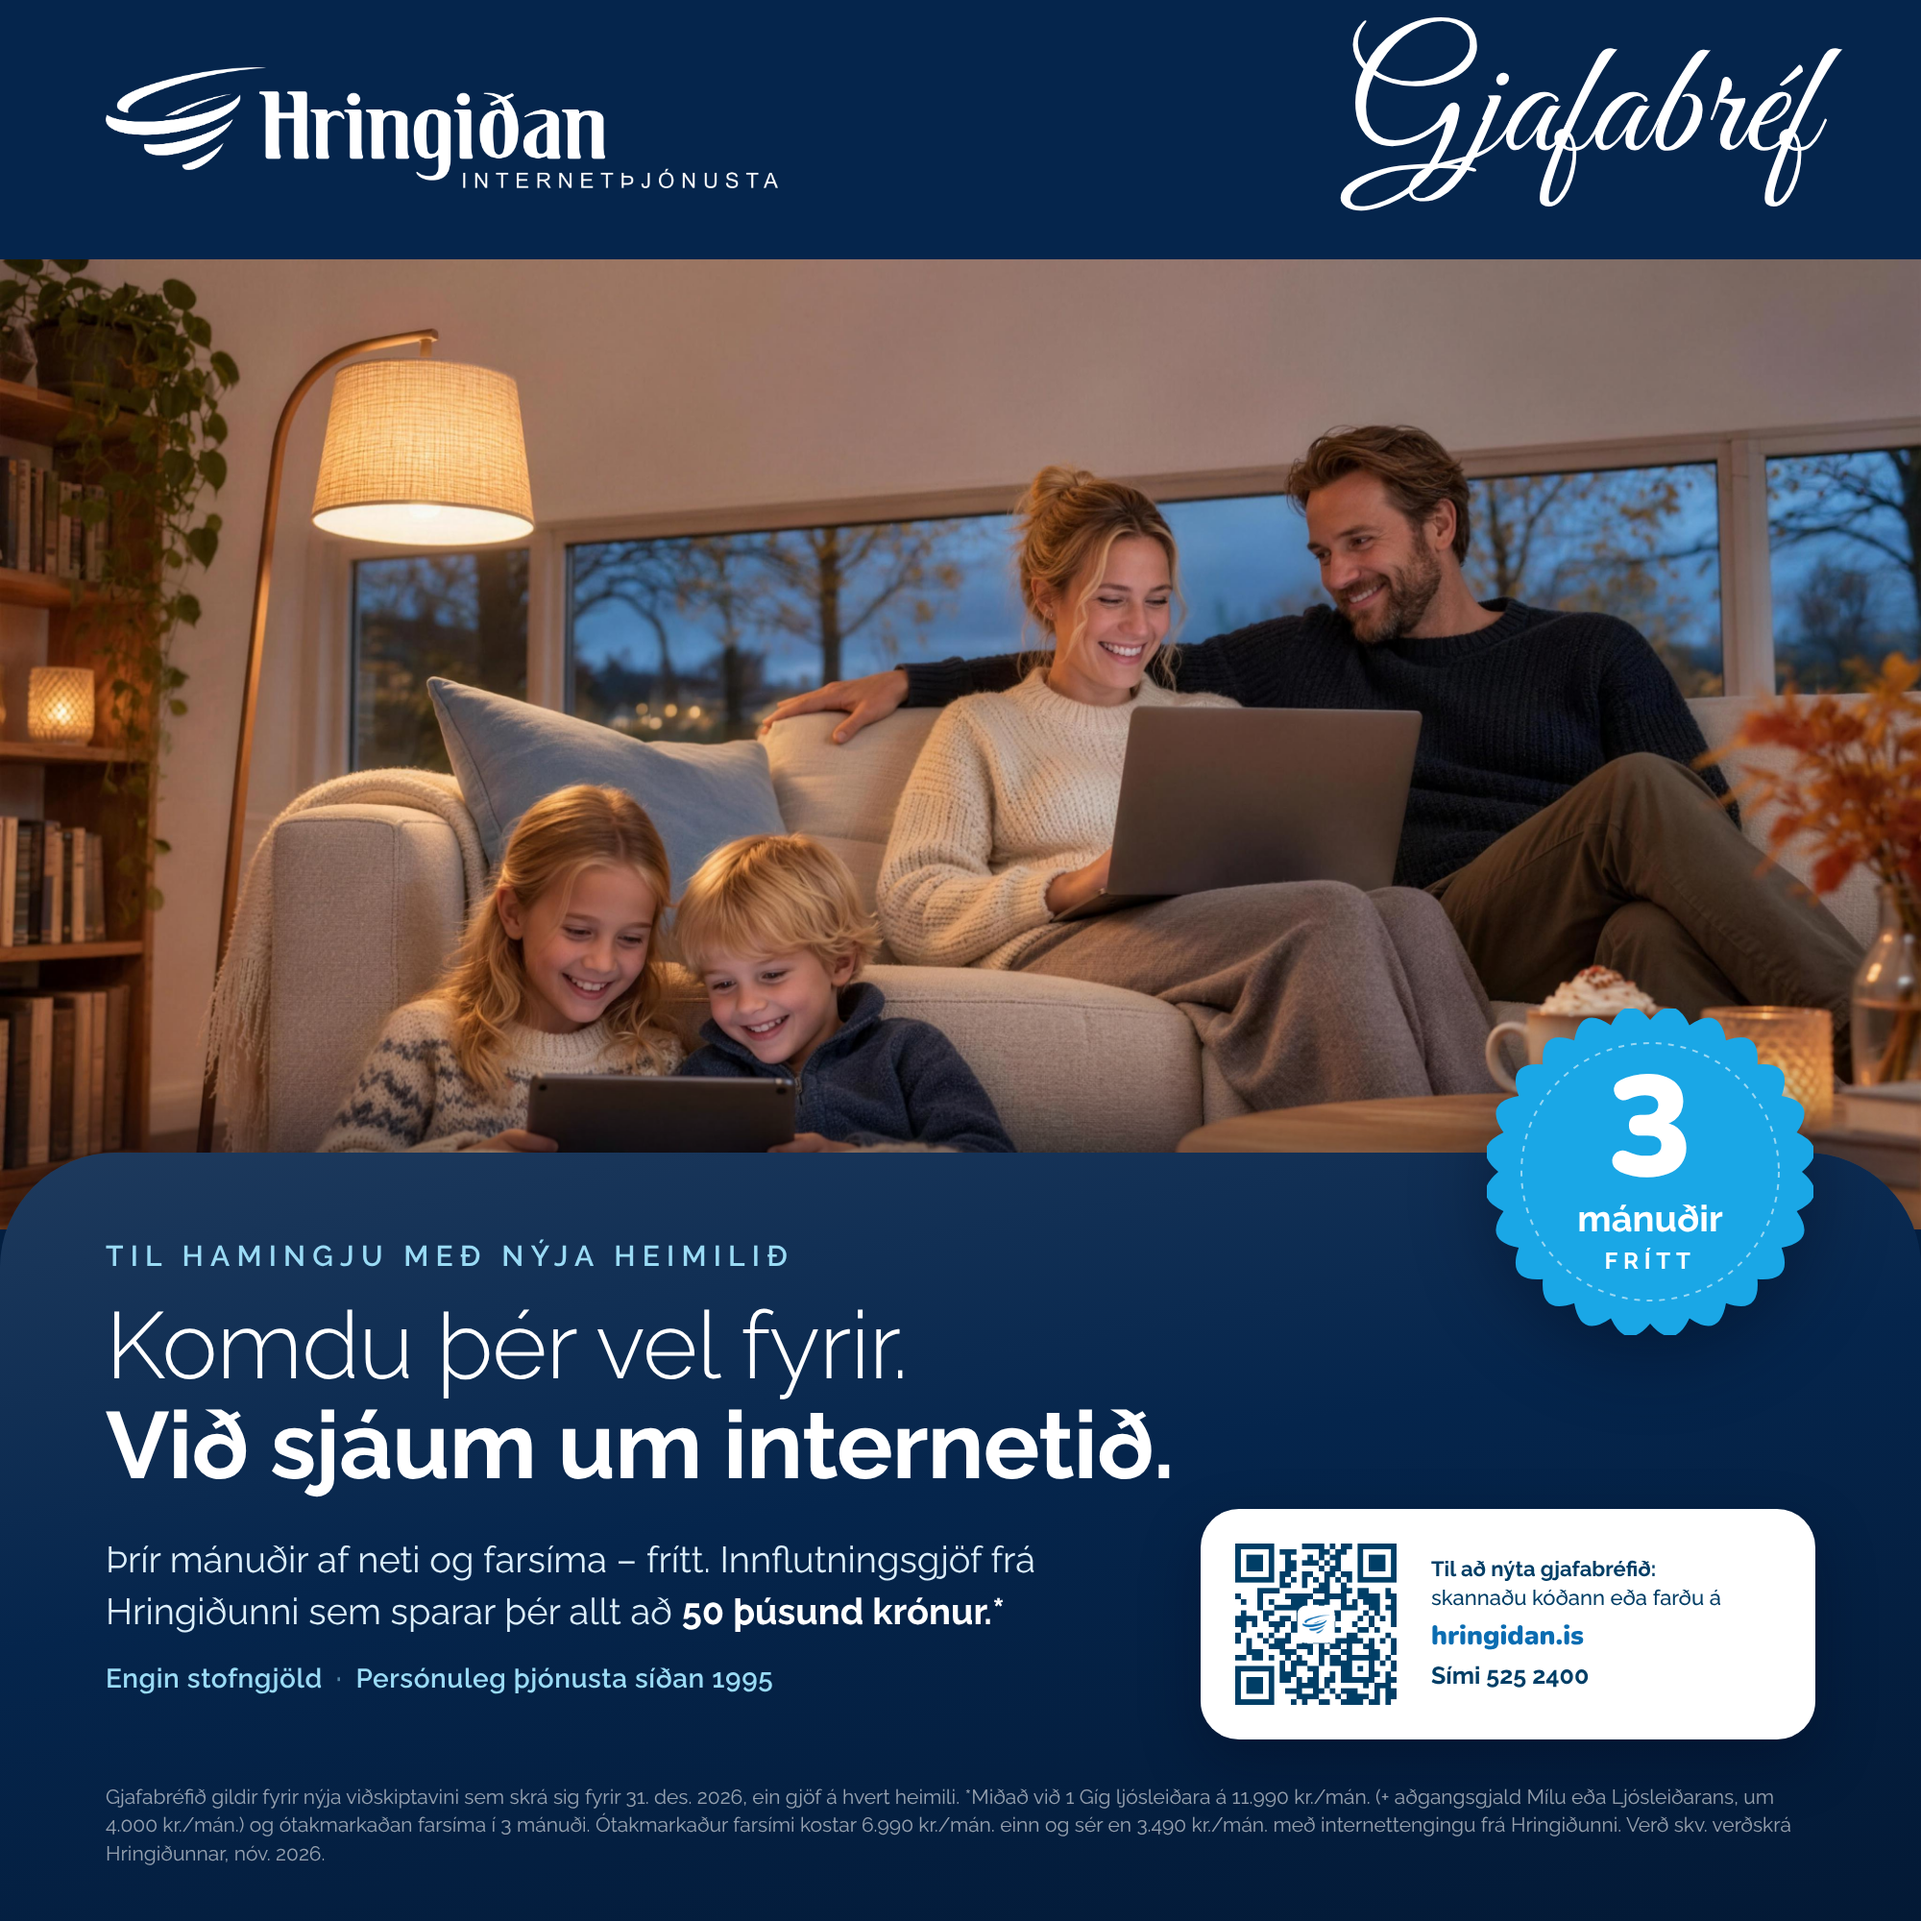
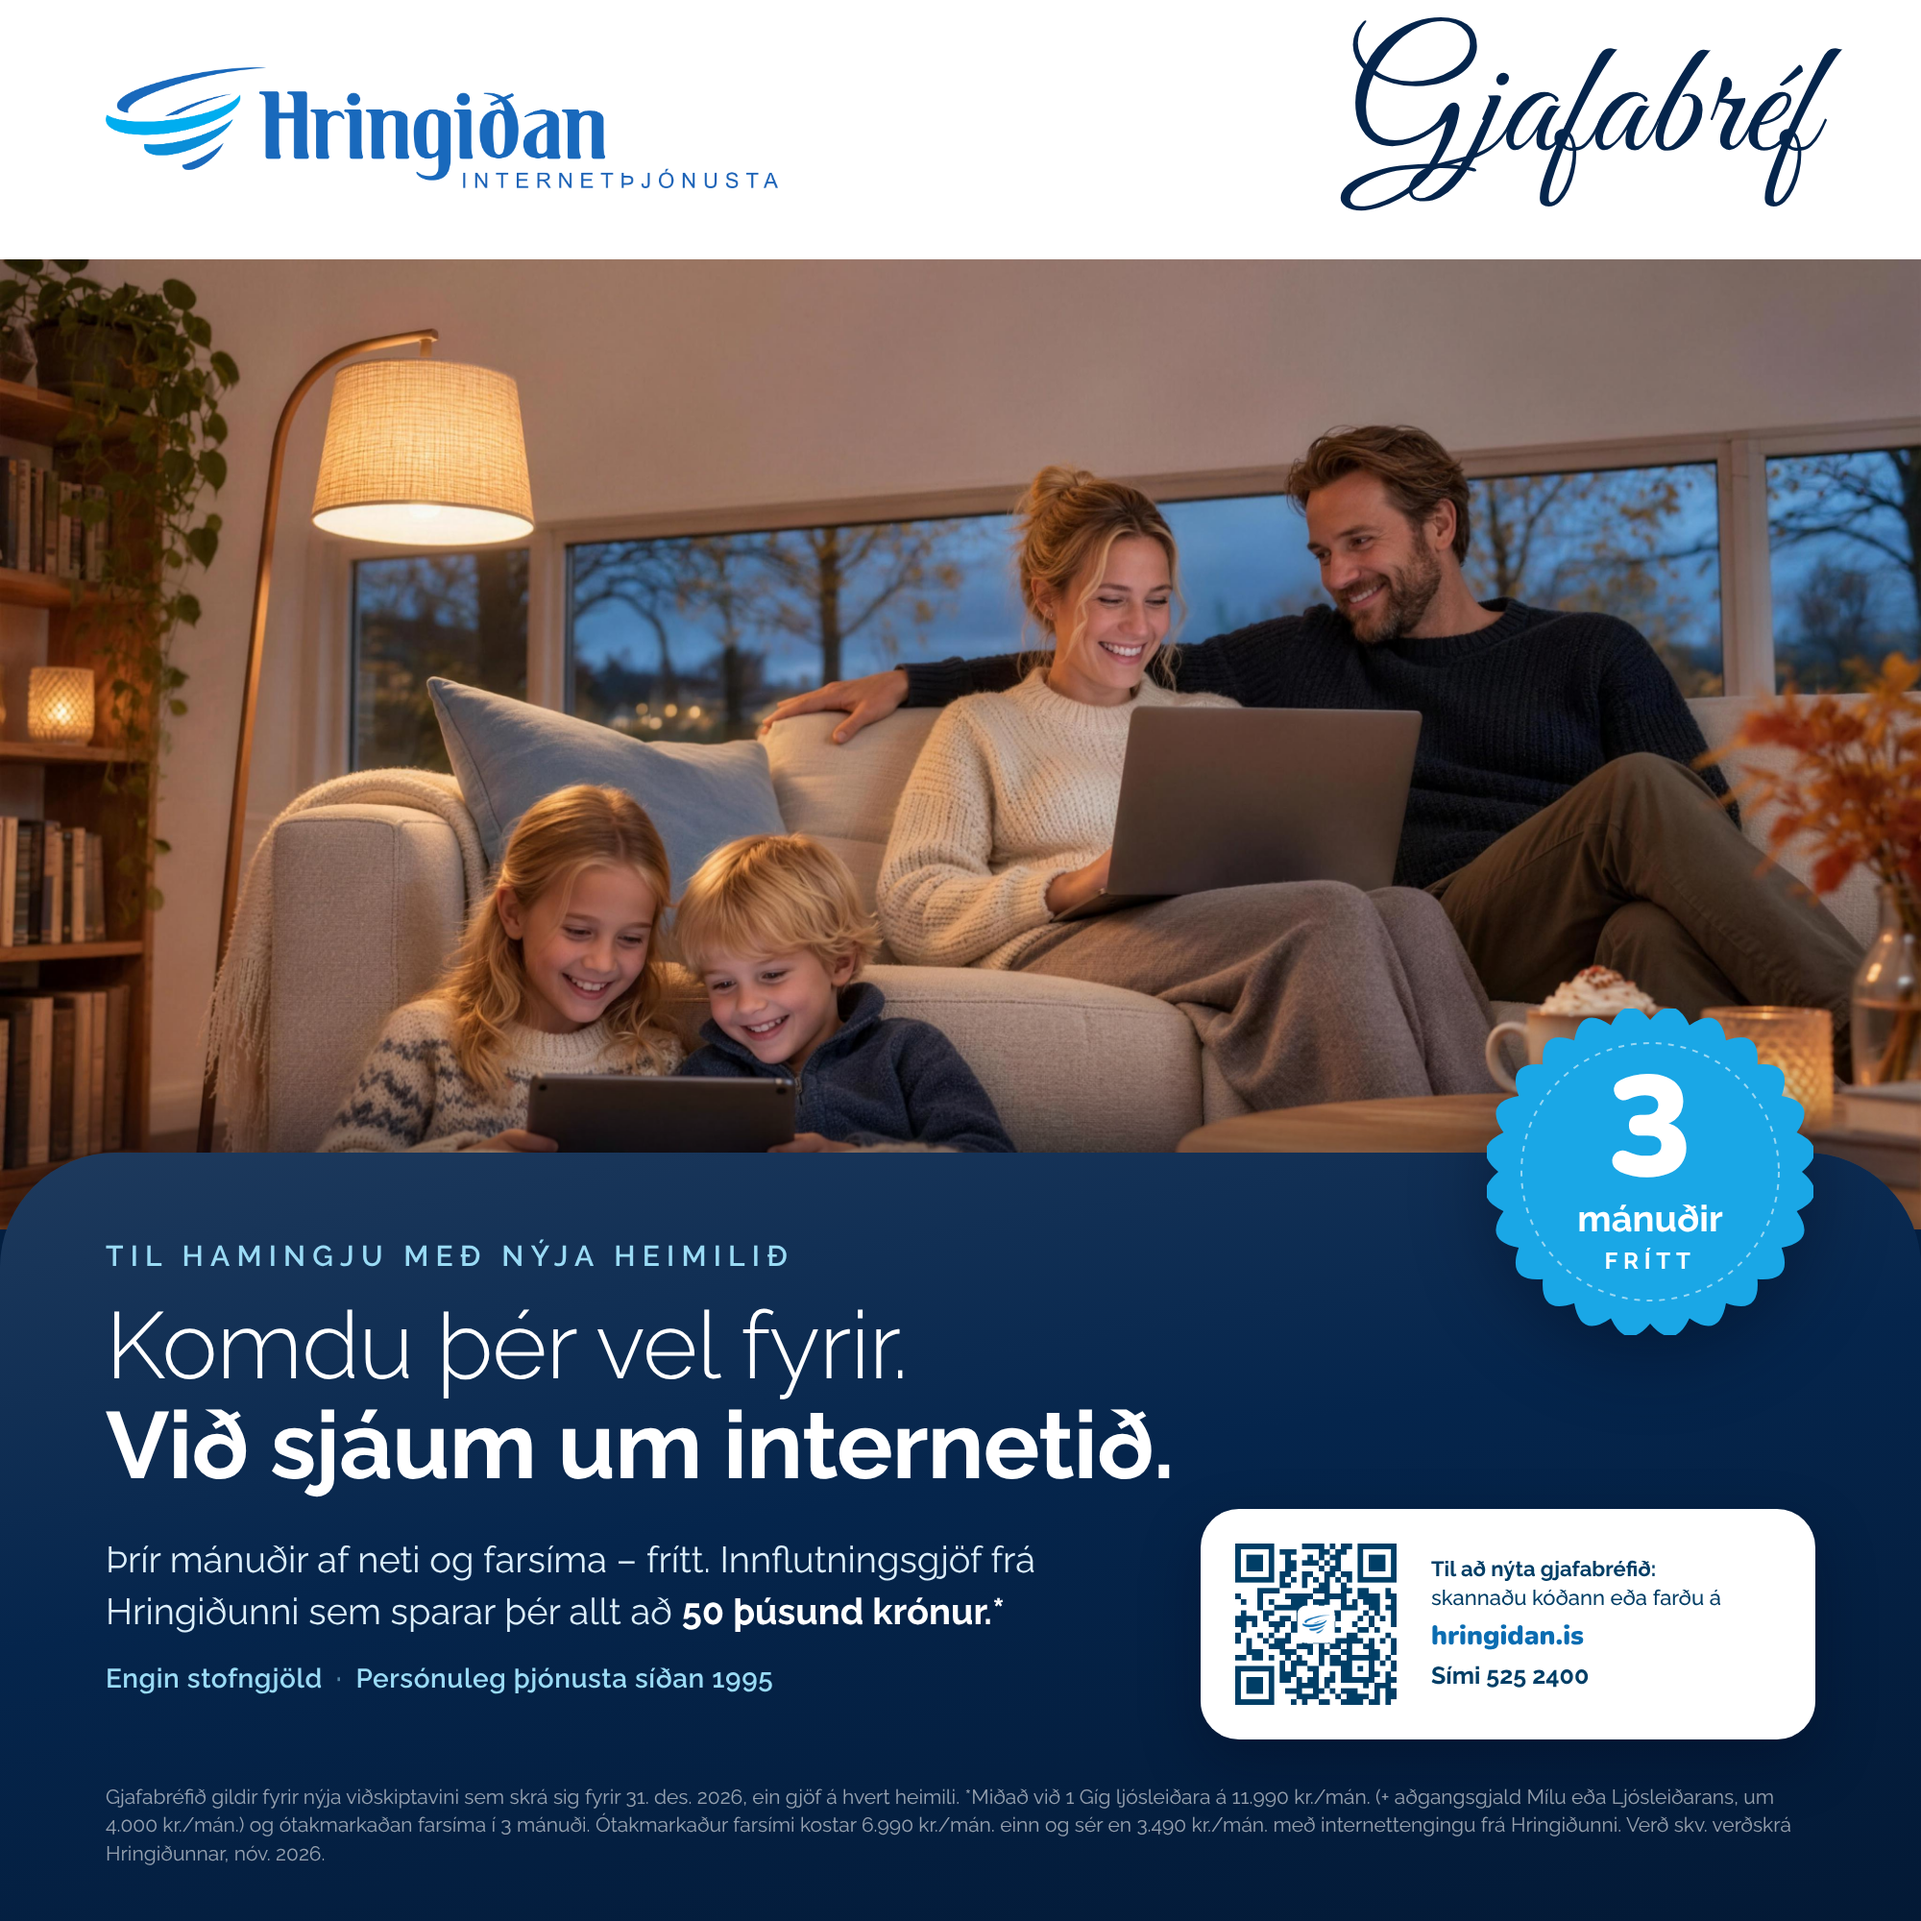
Hringiðan: merkið í réttum litum á hvítum grunni
Opinbera merkið notað í brand-litunum í stað hvítrar útgáfu. Bandið efst
á gjafabréfs-auglýsingunum gert hvítt (Gjafabréf í dökkbláu) og hvít
plata sett undir merkið á gjafakortinu svo litirnir sjáist rétt.

Claude-Session: https://claude.ai/code/session_01JAXd2m9cesSq5STdzJxvnq

Changed region(s): [[0.0, 0.0, 1.0, 0.155]]

diff --git a/auglysingar/hringidan/src/hringidan-gjafakort.html b/auglysingar/hringidan/src/hringidan-gjafakort.html
@@ -8,8 +8,9 @@
   .bg img { width: 2000px; height: 2000px; object-fit: cover; display: block; }
   .shade { position: absolute; left: 0; top: 1480px; width: 1480px; height: 210px; pointer-events: none;
            background: linear-gradient(90deg, rgba(8,34,62,.62) 0%, rgba(8,34,62,.45) 70%, rgba(8,34,62,0) 100%); }
-  .logo { position: absolute; left: 110px; top: 90px; width: 700px; }
-  .tag { position: absolute; left: 118px; top: 262px; font-size: 30px; font-weight: 500; letter-spacing: .32em; color: #CFE3F5; text-transform: uppercase; }
+  .plate { position: absolute; left: 90px; top: 64px; padding: 26px 34px 22px; background: #fff; border-radius: 26px; box-shadow: 0 18px 40px rgba(0,10,30,.35); }
+  .logo { display: block; width: 640px; }
+  .tag { position: absolute; left: 118px; top: 268px; font-size: 30px; font-weight: 500; letter-spacing: .32em; color: #CFE3F5; text-transform: uppercase; }
   .corner { position: absolute; left: 1706px; top: 830px; width: 200px; font-size: 22px; font-weight: 600; letter-spacing: .2em; line-height: 1.5; color: rgba(255,255,255,.85); text-transform: uppercase; }
   .corner hr { border: 0; border-top: 1px solid rgba(255,255,255,.45); width: 70px; margin: 18px 0; }
   .title { position: absolute; left: 110px; top: 372px; font-size: 140px; font-weight: 600; letter-spacing: .07em; line-height: 1; text-transform: uppercase; }
@@ -40,7 +41,7 @@
 </style></head><body><div class="ad">
   <div class="bg"><img src="giftbg.jpg" alt=""></div>
   <div class="shade"></div>
-  <img class="logo" src="logo_lockup_white.png" alt="Hringiðan Internetþjónusta">
+  <div class="plate"><img class="logo" src="logo_lockup_color.png" alt="Hringiðan Internetþjónusta"></div>
   <div class="tag">Tengir þig við meira</div>
   <div class="corner">Fjölskylda<br>Fyrirtæki<br>Framtíðin<hr>Íslenskir innviðir<br>Betra líf</div>
   <div class="title">Gjafabréf</div>

diff --git a/auglysingar/hringidan/src/hringidan-gjafabref-2d.html b/auglysingar/hringidan/src/hringidan-gjafabref-2d.html
@@ -3,9 +3,9 @@
 <style>
   @font-face { font-family: 'GreatVibes'; src: url('GreatVibes.woff2') format('woff2'); }
   .ad { background: #05254C; color: #fff; }
-  .head { position: absolute; left: 0; top: 0; width: 2000px; height: 270px; background: #05254C; }
+  .head { position: absolute; left: 0; top: 0; width: 2000px; height: 270px; background: #FFFFFF; }
   .logo { position: absolute; left: 110px; top: 70px; width: 700px; }
-  .gift { position: absolute; right: 110px; top: 34px; font-family: 'GreatVibes', cursive; font-size: 168px; line-height: 1; color: #fff; }
+  .gift { position: absolute; right: 110px; top: 34px; font-family: 'GreatVibes', cursive; font-size: 168px; line-height: 1; color: #05254C; }
   .photo { position: absolute; left: 0; top: 270px; width: 2000px; height: 1010px; overflow: hidden; }
   .photo img { width: 2000px; height: 1010px; display: block; object-fit: cover; object-position: 50% 60%; background: #05254C; }
   .panel { position: absolute; left: 0; right: 0; top: 1200px; bottom: 0; border-radius: 120px 120px 0 0; padding: 90px 110px 0;
@@ -36,7 +36,7 @@
   .seal .small { font-size: 24px; font-weight: 700; letter-spacing: .24em; text-transform: uppercase; margin-top: 10px; }
 </style></head><body><div class="ad">
   <div class="head"></div>
-  <img class="logo" src="logo_lockup_white.png" alt="Hringiðan Internetþjónusta">
+  <img class="logo" src="logo_lockup_color.png" alt="Hringiðan Internetþjónusta">
   <div class="gift">Gjafabréf</div>
   <div class="photo"><img src="illu.png" alt=""></div>
   <div class="panel">

diff --git a/auglysingar/hringidan/src/hringidan-gjafabref-ljosmynd.html b/auglysingar/hringidan/src/hringidan-gjafabref-ljosmynd.html
@@ -3,9 +3,9 @@
 <style>
   @font-face { font-family: 'GreatVibes'; src: url('GreatVibes.woff2') format('woff2'); }
   .ad { background: #05254C; color: #fff; }
-  .head { position: absolute; left: 0; top: 0; width: 2000px; height: 270px; background: #05254C; }
+  .head { position: absolute; left: 0; top: 0; width: 2000px; height: 270px; background: #FFFFFF; }
   .logo { position: absolute; left: 110px; top: 70px; width: 700px; }
-  .gift { position: absolute; right: 110px; top: 34px; font-family: 'GreatVibes', cursive; font-size: 168px; line-height: 1; color: #fff; }
+  .gift { position: absolute; right: 110px; top: 34px; font-family: 'GreatVibes', cursive; font-size: 168px; line-height: 1; color: #05254C; }
   .photo { position: absolute; left: 0; top: 270px; width: 2000px; height: 1010px; overflow: hidden; }
   .photo img { width: 2000px; height: 1010px; display: block; object-fit: cover; object-position: 50% 72%; }
   .panel { position: absolute; left: 0; right: 0; top: 1200px; bottom: 0; border-radius: 120px 120px 0 0; padding: 90px 110px 0;
@@ -36,7 +36,7 @@
   .seal .small { font-size: 24px; font-weight: 700; letter-spacing: .24em; text-transform: uppercase; margin-top: 10px; }
 </style></head><body><div class="ad">
   <div class="head"></div>
-  <img class="logo" src="logo_lockup_white.png" alt="Hringiðan Internetþjónusta">
+  <img class="logo" src="logo_lockup_color.png" alt="Hringiðan Internetþjónusta">
   <div class="gift">Gjafabréf</div>
   <div class="photo"><img src="photo_c.jpg" alt=""></div>
   <div class="panel">

diff --git a/auglysingar/hringidan/README.md b/auglysingar/hringidan/README.md
@@ -1,7 +1,7 @@
 # Hringiðan – Gjafabréf („Komdu þér vel fyrir“)
 
-Endurhönnun á innflutningsgjöf Hringiðunnar sem **gjafabréf**: dökkblátt band efst (sami navy-litur og á gjafakortinu,
-`#05254C`) með opinbera lógóinu (Hringiðan Internetþjónusta) vinstra megin og „Gjafabréf“ í skrautskrift hægra megin, fjölskyldumynd út í kant í kósý stemningu þar sem mamman er í tölvunni og
+Endurhönnun á innflutningsgjöf Hringiðunnar sem **gjafabréf**: hvítt band efst með opinbera lógóinu í réttum litum (Hringiðan Internetþjónusta) vinstra megin og „Gjafabréf“
+í skrautskrift í dökkbláu hægra megin, fjölskyldumynd út í kant í kósý stemningu þar sem mamman er í tölvunni og
 pabbinn horfir á hana, krakkarnir með spjaldtölvu fyrir framan sófann, ávalur blár textaflötur og innsigli „3 mánuðir frítt“. Innblástur: uppsetning Sýn-póstsins
 (eitt ríkjandi litaþema, stór ávöl form, stuttur og vinalegur texti). Lógó, litir, QR-kóði og tilboð Hringiðunnar halda sér.
 
@@ -11,7 +11,7 @@ pabbinn horfir á hana, krakkarnir með spjaldtölvu fyrir framan sófann, ával
 |---|---|
 | `hringidan-gjafabref-ljosmynd.png` / `.jpg` | **Aðalútgáfa** – ljósmynd. 2000×2000. |
 | `hringidan-gjafabref-2d.png` / `.jpg` | Sama gjafabréfs-rammi með flatri 2D teikningu. 2000×2000. |
-| `hringidan-gjafakort.png` / `.jpg` | Gjafakort (25.000 kr.) í 1:1 eftir fyrirmynd með bláum borða og slaufu yfir íslenskt landslag, með alvöru Hringiðan-lógóinu. Gjafabréfsnúmer `HG-123456` er sýnishorn. |
+| `hringidan-gjafakort.png` / `.jpg` | Gjafakort (25.000 kr.) í 1:1 eftir fyrirmynd með bláum borða og slaufu yfir íslenskt landslag, með opinbera lógóinu í lit á hvítum fleti. Gjafabréfsnúmer `HG-123456` er sýnishorn. |
 | `eldri/` | Fyrri umferðir til viðmiðunar: `hringidan-kosy-*` (fyrsta umferð) og `hringidan-gjafabref-rammi-*` (útgáfa með skrautramma og mynd í spjaldi). |
 | `src/` | Breytanlegar HTML/CSS skrár, leturgerðir (Raleway, Nunito, Montserrat, Great Vibes, Dancing Script), opinbera lógóið úr vektor-PDF frá Hringiðunni (`Hringidan_logo.pdf` → `logo_lockup_white.png` / `logo_lockup_color.png`, með „Internetþjónusta“ sem hluta af merkinu), QR-kóðar og myndir. |
 
@@ -39,6 +39,9 @@ pabbinn horfir á hana, krakkarnir með spjaldtölvu fyrir framan sófann, ával
   Með farsíma á fullu verði (6.990) yrði það 56.940 kr.
 
 QR-kóðinn á gjafabréfs-auglýsingunum (`src/qr_is.png`) vísar á `https://hringidan.is/`; á gjafakortinu (`src/qr.png`) á `https://hringidan.is/pontun/`. Hvort tveggja staðfest með afkóðun úr endanlegu myndunum.
+
+Merkið er notað í opinberu litunum; þar sem það á að sitja á dökkum grunni er hvítur flötur undir því svo litirnir haldist
+nákvæmlega eins og í merkinu (hvítt band efst á auglýsingunum, hvít plata á gjafakortinu).
 
 ## Gjafakortið (1:1)
 
